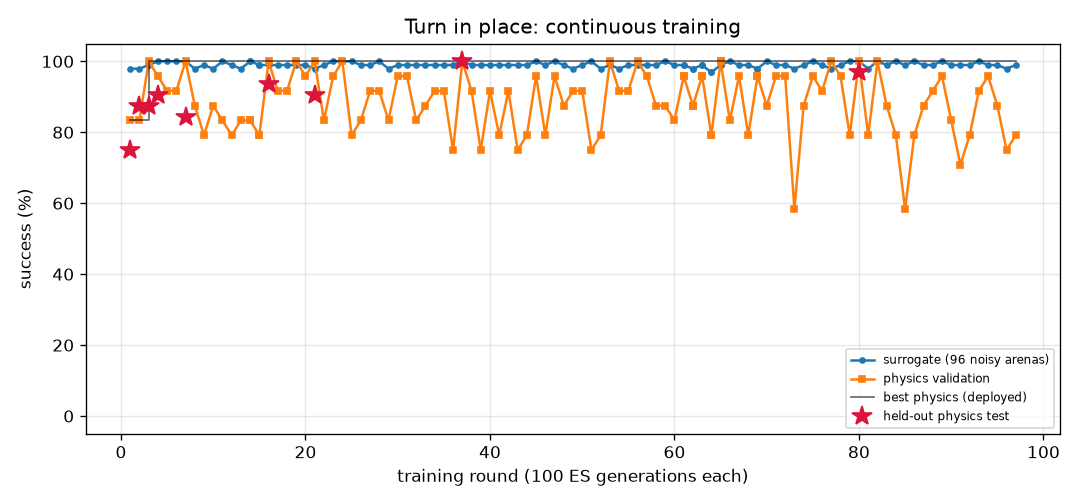
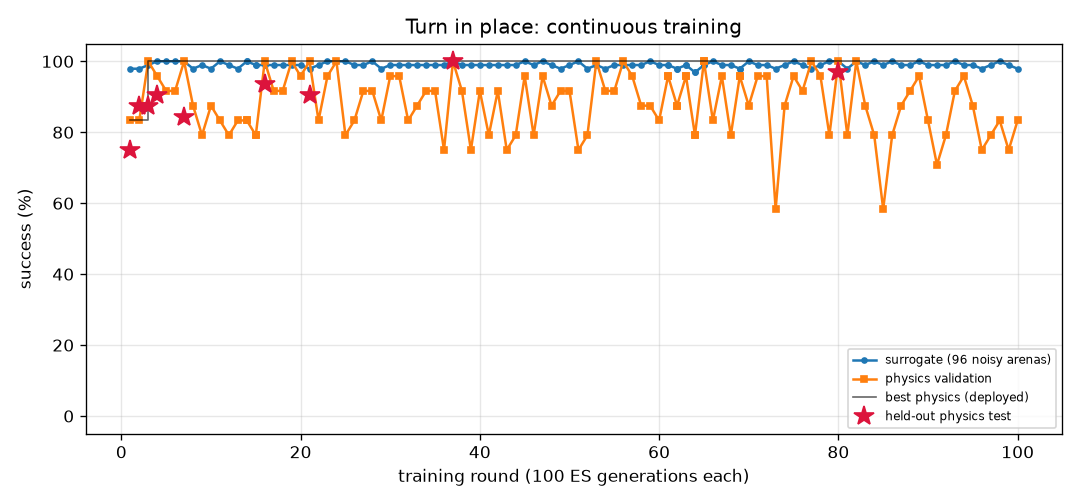
FlyLab: continuous training progress
- walk_forward: optimal, physics val 100% of 24, round 40
- turn: optimal, physics val 100% of 24, round 100
- goto: optimal, physics val 100% of 24, round 40
- odor_seek: optimal, physics val 100% of 24, round 68
- odor_avoid: optimal, physics val 100% of 24, round 254
- light_seek: optimal, physics val 100% of 24, round 213
- light_avoid: optimal, physics val 100% of 24, round 61

diff --git a/projects/09_flylab/training/turn/REPORT.md b/projects/09_flylab/training/turn/REPORT.md
@@ -1,14 +1,14 @@
 # Turn in place (`turn`) — training report
 
-*Auto-generated by `train_brains.py`, last updated 2026-10-04T11:46:50.*
+*Auto-generated by `train_brains.py`, last updated 2026-10-04T12:02:13.*
 
 ![curve](curve.png)
 
 | | |
 |---|---|
-| rounds | 97 |
-| ES generations | 9700 |
-| physics runs | 2574 |
+| rounds | 100 |
+| ES generations | 10000 |
+| physics runs | 2646 |
 | status | **optimal** |
 | best brain | round 80: physics validation **100%** on 24 arenas, surrogate 100% |
 | held-out physics test | **97%** on 32 unseen arenas (95% CI 84%-99%) (errors: [1.6, 3.3, 6.3, 3.7, 1.1, 0.4, 2.4, 2.9, 0.1, 2.6, 0.5, 2.7, 1.5, 3.1, 4.5, 0.2, 0.5, 1.1, 2.0, 4.4, 2.8, 3.2, 0.3, 2.2, 0.5, 3.0, 0.3, 5.4, 0.4, 1.0, 4.7, 10.7]) |
@@ -17,9 +17,6 @@ Physics error per arena: deg from target heading (< 20 = success).
 
 | round | level | gens | sigma | surrogate | physics val | val errors | test | note |
 |---:|---:|---:|---:|---:|---:|---|---:|---|
-| 62 | 3 | 6200 | 0.024 | 98% | 88% | [10.7, 16.9, 9.8, 8.8, 1.3, 9.2, 12.0, 12.8, 9.6, 2.4, 7.5, 3.2, 5.9, 1.5, 7.1, 7.0, 4.6, 16.3, 6.3, 6.7, 3.9, 6.1, 11.5, 9.7] |  |  |
-| 63 | 3 | 6300 | 0.025 | 99% | 96% | [1.5, 12.8, 1.5, 1.9, 2.3, 4.5, 6.2, 9.0, 8.2, 11.8, 5.6, 3.8, 1.6, 0.2, 5.7, 2.1, 3.8, 2.5, 2.1, 2.3, 0.9, 0.2, 8.6, 2.3] |  |  |
-| 63 | 3 | 6300 | 0.025 | 99% | 96% | [1.5, 12.8, 1.5, 1.9, 2.3, 4.5, 6.2, 9.0, 8.2, 11.8, 5.6, 3.8, 1.6, 0.2, 5.7, 2.1, 3.8, 2.5, 2.1, 2.3, 0.9, 0.2, 8.6, 2.3] |  |  |
 | 64 | 3 | 6400 | 0.025 | 97% | 79% | [1.0, 2.7, 1.4, 0.7, 4.7, 4.0, 5.8, 8.0, 5.3, 1.2, 5.8, 1.4, 0.3, 1.2, 1.2, 2.4, 1.8, 2.4, 1.6, 0.9, 5.6, 1.9, 4.8, 5.7] |  |  |
 | 64 | 3 | 6400 | 0.025 | 97% | 79% | [1.0, 2.7, 1.4, 0.7, 4.7, 4.0, 5.8, 8.0, 5.3, 1.2, 5.8, 1.4, 0.3, 1.2, 1.2, 2.4, 1.8, 2.4, 1.6, 0.9, 5.6, 1.9, 4.8, 5.7] |  |  |
 | 65 | 3 | 6500 | 0.026 | 99% | 100% | [7.5, 12.7, 1.9, 3.3, 11.8, 2.1, 8.4, 8.2, 7.7, 2.8, 6.0, 5.4, 3.3, 1.8, 4.1, 3.2, 5.1, 12.0, 3.2, 3.5, 0.1, 3.7, 6.9, 4.1] |  | restart from best |
@@ -57,3 +54,6 @@ Physics error per arena: deg from target heading (< 20 = success).
 | 95 | 3 | 9500 | 0.025 | 99% | 88% | [8.3, 11.4, 9.0, 1.7, 0.7, 0.4, 0.4, 6.3, 0.8, 2.1, 0.0, 3.4, 3.1, 6.1, 2.1, 3.3, 3.4, 2.3, 3.3, 4.0, 8.5, 1.1, 0.2, 1.9] |  |  |
 | 96 | 3 | 9600 | 0.025 | 98% | 75% | [3.4, 1.2, 6.2, 1.2, 4.2, 0.4, 4.8, 5.8, 7.5, 1.0, 5.3, 1.5, 1.7, 2.5, 5.5, 3.8, 1.3, 4.6, 3.9, 4.9, 4.5, 4.4, 7.6, 5.8] |  | restart from best |
 | 97 | 3 | 9700 | 0.024 | 99% | 79% | [8.2, 10.9, 4.7, 3.4, 2.8, 4.9, 2.4, 3.7, 0.5, 4.4, 1.0, 4.3, 4.8, 6.5, 1.4, 3.2, 4.6, 3.6, 3.0, 4.1, 6.1, 1.2, 0.6, 6.1] |  |  |
+| 98 | 3 | 9800 | 0.025 | 100% | 83% | [8.2, 11.6, 9.3, 3.5, 4.5, 5.7, 4.0, 3.9, 1.8, 3.8, 1.2, 4.5, 2.0, 5.6, 2.1, 1.9, 4.4, 2.2, 2.0, 1.9, 7.5, 1.4, 1.4, 6.9] |  |  |
+| 99 | 3 | 9900 | 0.024 | 99% | 75% | [9.8, 12.6, 6.3, 3.9, 1.3, 5.9, 1.8, 7.5, 2.3, 0.8, 1.5, 4.4, 2.1, 4.3, 0.6, 2.0, 4.6, 1.4, 2.8, 2.6, 10.6, 0.9, 4.0, 7.6] |  |  |
+| 100 | 3 | 10000 | 0.025 | 98% | 83% | [5.4, 10.0, 0.5, 2.5, 5.9, 0.2, 5.4, 1.0, 2.4, 0.4, 4.5, 2.7, 3.3, 4.2, 2.9, 1.0, 2.4, 0.1, 0.7, 0.9, 4.4, 1.3, 3.2, 2.4] |  | restart from best |

diff --git a/projects/09_flylab/training/odor_avoid/REPORT.md b/projects/09_flylab/training/odor_avoid/REPORT.md
@@ -1,14 +1,14 @@
 # Escape a bad smell (`odor_avoid`) — training report
 
-*Auto-generated by `train_brains.py`, last updated 2026-10-03T22:29:29.*
+*Auto-generated by `train_brains.py`, last updated 2026-10-04T12:01:04.*
 
 ![curve](curve.png)
 
 | | |
 |---|---|
-| rounds | 252 |
-| ES generations | 25200 |
-| physics runs | 3130 |
+| rounds | 254 |
+| ES generations | 25400 |
+| physics runs | 3178 |
 | status | **optimal** |
 | best brain | round 252: physics validation **100%** on 24 arenas, surrogate 96% |
 | held-out physics test | **100%** on 32 unseen arenas (95% CI 89%-100%) (errors: [47.1, 46.1, 48.2, 47.5, 47.1, 47.9, 46.0, 47.9, 46.2, 44.6, 47.7, 46.1, 47.5, 47.5, 47.3, 47.1, 48.3, 42.4, 47.8, 42.8, 46.8, 47.8, 46.1, 46.9, 46.8, 45.3, 44.3, 42.0, 45.2, 46.1, 46.7, 34.7]) |
@@ -17,8 +17,6 @@ Physics error per arena: mm gained away from source (> 6 without first approachi
 
 | round | level | gens | sigma | surrogate | physics val | val errors | test | note |
 |---:|---:|---:|---:|---:|---:|---|---:|---|
-| 219 | 3 | 21900 | 0.026 | 93% | 92% | [42.4, 40.8, 40.5, 41.5, 41.4, 40.6, 42.1, 41.4, 41.8, 41.3, 41.2, 42.7, 35.6, 39.5, 22.4, 41.1, 42.3, 40.8, 38.9, 39.2, 42.5, 41.5, 41.3, 41.5] |  |  |
-| 219 | 3 | 21900 | 0.026 | 93% | 92% | [42.4, 40.8, 40.5, 41.5, 41.4, 40.6, 42.1, 41.4, 41.8, 41.3, 41.2, 42.7, 35.6, 39.5, 22.4, 41.1, 42.3, 40.8, 38.9, 39.2, 42.5, 41.5, 41.3, 41.5] |  |  |
 | 220 | 3 | 22000 | 0.028 | 97% | 92% | [49.5, 48.8, 47.4, 48.3, 47.6, 48.7, 50.2, 49.6, 49.8, 48.4, 47.6, 49.1, 41.0, 45.3, 32.7, 48.7, 49.0, 48.7, 44.2, 47.9, 49.2, 49.0, 48.1, 49.9] |  | restart from best |
 | 221 | 3 | 22100 | 0.026 | 97% | 96% | [27.8, 27.7, 26.9, 27.8, 26.6, 25.9, 28.3, 27.5, 27.4, 26.6, 27.3, 28.0, 24.9, 26.4, 23.2, 25.8, 27.7, 26.0, 26.4, 27.8, 28.0, 26.2, 27.4, 26.9] |  |  |
 | 222 | 3 | 22200 | 0.026 | 96% | 96% | [25.7, 25.7, 25.0, 25.7, 24.4, 24.0, 26.3, 24.7, 25.4, 24.5, 25.8, 26.1, 24.5, 24.5, 22.2, 24.2, 25.9, 24.3, 24.7, 25.8, 26.2, 24.0, 25.3, 24.1] |  |  |
@@ -57,3 +55,5 @@ Physics error per arena: mm gained away from source (> 6 without first approachi
 | 250 | 3 | 25000 | 0.028 | 94% | 92% | [42.7, 42.1, 40.3, 41.0, 41.2, 42.0, 42.1, 43.2, 42.1, 42.9, 40.7, 42.3, 34.3, 37.0, 30.7, 41.5, 42.1, 41.7, 33.2, 41.6, 42.0, 42.9, 42.3, 43.2] |  | restart from best |
 | 251 | 3 | 25100 | 0.026 | 95% | 96% | [46.2, 44.7, 44.1, 45.0, 45.0, 44.7, 46.1, 45.2, 45.9, 44.6, 45.5, 45.5, 40.6, 42.1, 30.6, 44.2, 45.6, 44.5, 41.3, 43.1, 45.3, 45.0, 45.2, 44.7] |  |  |
 | 252 | 3 | 25200 | 0.027 | 96% | 100% | [48.5, 47.6, 45.0, 46.5, 45.4, 46.7, 47.6, 47.5, 47.4, 46.1, 45.9, 47.6, 40.9, 42.9, 34.7, 46.2, 47.3, 46.5, 42.4, 46.9, 47.8, 46.4, 46.7, 47.5] | 100% | new best |
+| 253 | 3 | 25300 | 0.026 | 95% | 96% | [44.2, 42.2, 39.2, 41.8, 43.1, 41.6, 44.5, 39.7, 43.6, 40.4, 43.3, 43.9, 37.6, 38.9, 25.1, 42.8, 43.9, 41.6, 38.6, 40.1, 43.9, 40.7, 41.9, 41.6] |  |  |
+| 254 | 3 | 25400 | 0.027 | 96% | 96% | [44.0, 42.7, 42.1, 43.1, 43.1, 41.6, 44.0, 23.8, 44.2, 31.9, 43.0, 43.7, 37.8, 39.6, 29.9, 42.0, 43.4, 41.8, 39.0, 42.9, 43.5, 38.8, 43.2, 37.9] |  |  |

diff --git a/projects/09_flylab/training/TRAINING.md b/projects/09_flylab/training/TRAINING.md
@@ -1,15 +1,15 @@
 # FlyLab brains — continuous training log
 
-*Auto-generated by `train_brains.py`, last updated 2026-10-04T11:47:07.*
+*Auto-generated by `train_brains.py`, last updated 2026-10-04T12:02:13.*
 
 Every skill has its own brain and its own training process: surrogate ES rounds, physics validation in MuJoCo, keep-the-best selection, and a held-out physics test that is never used for selection. See each skill's report for its full round-by-round history. Mastery is progressive: passing a level (100% physics validation, >=95% surrogate) doubles the validation and test arena sets; a brain is **optimal** once it holds up at level 3 (>=95% of 24 validation arenas) AND scores >=90% on the 32 held-out test arenas. Test columns show 95% Wilson confidence intervals.
 
 | skill | rounds | ES generations | physics runs | surrogate | physics val | **physics test** | status |
 |---|---:|---:|---:|---:|---:|---:|---|
 | [Walk forward](walk_forward/REPORT.md) | 40 | 4000 | 846 | 100% | 100% of 24 | 100% of 32 (CI 89-100%) | **optimal** |
-| [Turn in place](turn/REPORT.md) | 97 | 9700 | 2574 | 100% | 100% of 24 | 97% of 32 (CI 84-99%) | **optimal** |
+| [Turn in place](turn/REPORT.md) | 100 | 10000 | 2646 | 100% | 100% of 24 | 97% of 32 (CI 84-99%) | **optimal** |
 | [Go to a location](goto/REPORT.md) | 40 | 4000 | 718 | 99% | 100% of 24 | 100% of 32 (CI 89-100%) | **optimal** |
 | [Find food by smell](odor_seek/REPORT.md) | 68 | 6800 | 838 | 100% | 100% of 24 | 100% of 32 (CI 89-100%) | **optimal** |
-| [Escape a bad smell](odor_avoid/REPORT.md) | 252 | 25200 | 3130 | 96% | 100% of 24 | 100% of 32 (CI 89-100%) | **optimal** |
+| [Escape a bad smell](odor_avoid/REPORT.md) | 254 | 25400 | 3178 | 96% | 100% of 24 | 100% of 32 (CI 89-100%) | **optimal** |
 | [Walk toward light](light_seek/REPORT.md) | 213 | 21300 | 1800 | 100% | 100% of 24 | 100% of 32 (CI 89-100%) | **optimal** |
 | [Hide from light](light_avoid/REPORT.md) | 61 | 6100 | 1704 | 100% | 100% of 24 | 100% of 32 (CI 89-100%) | **optimal** |
